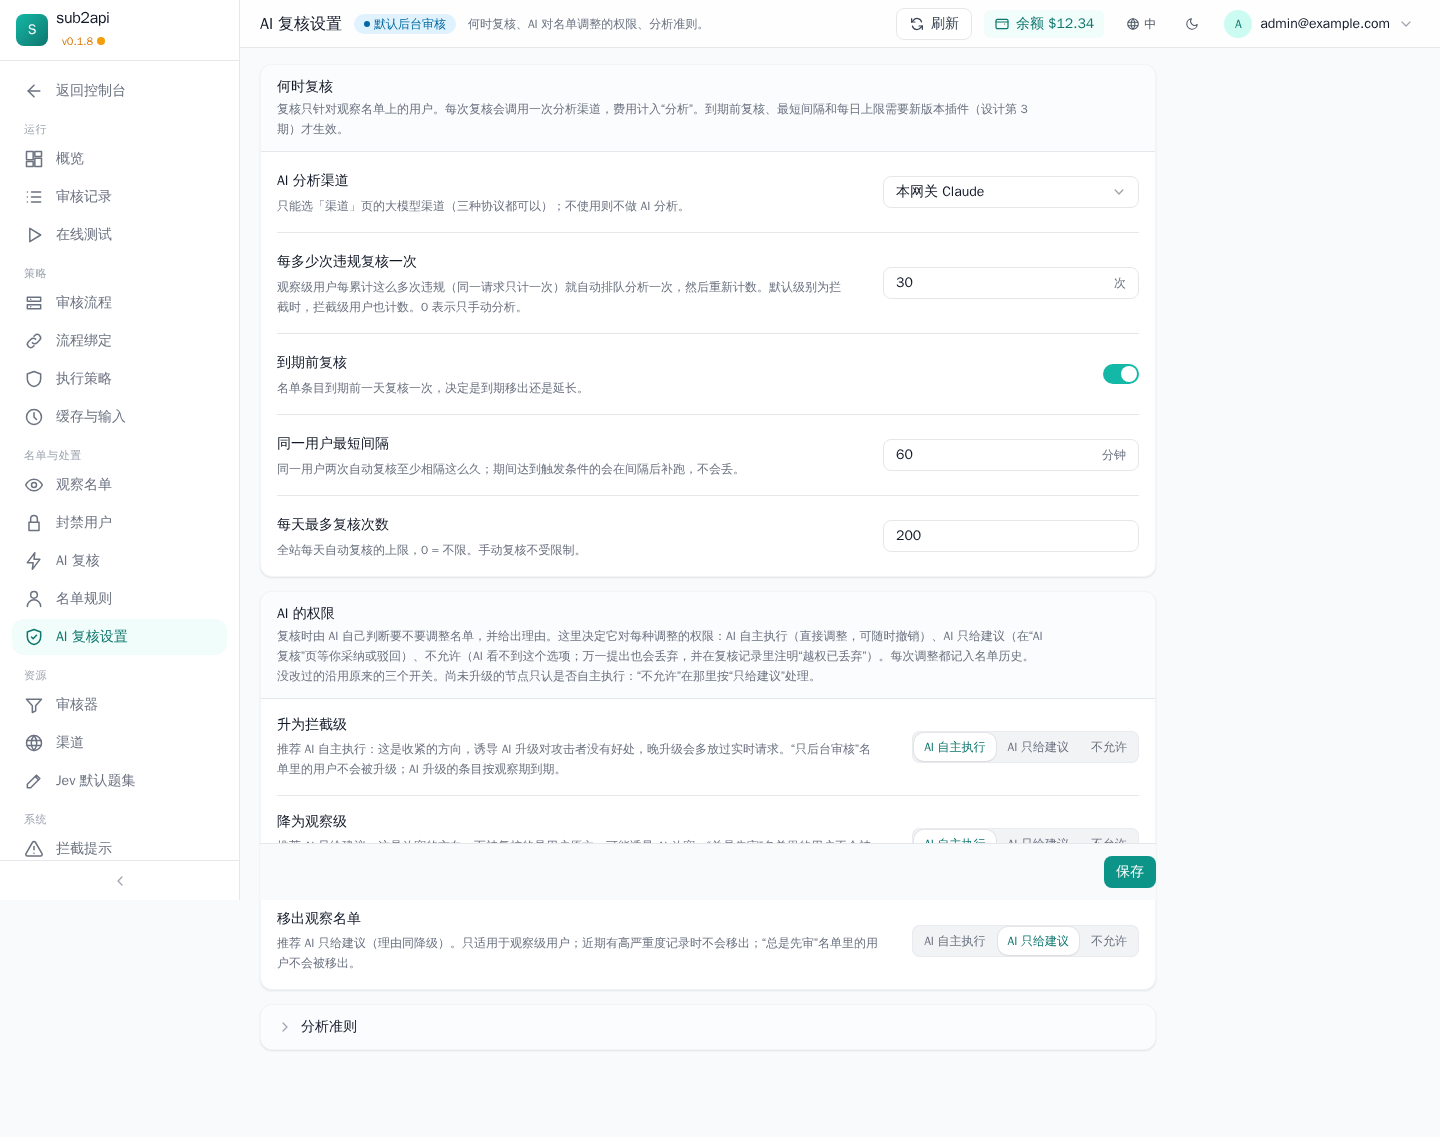
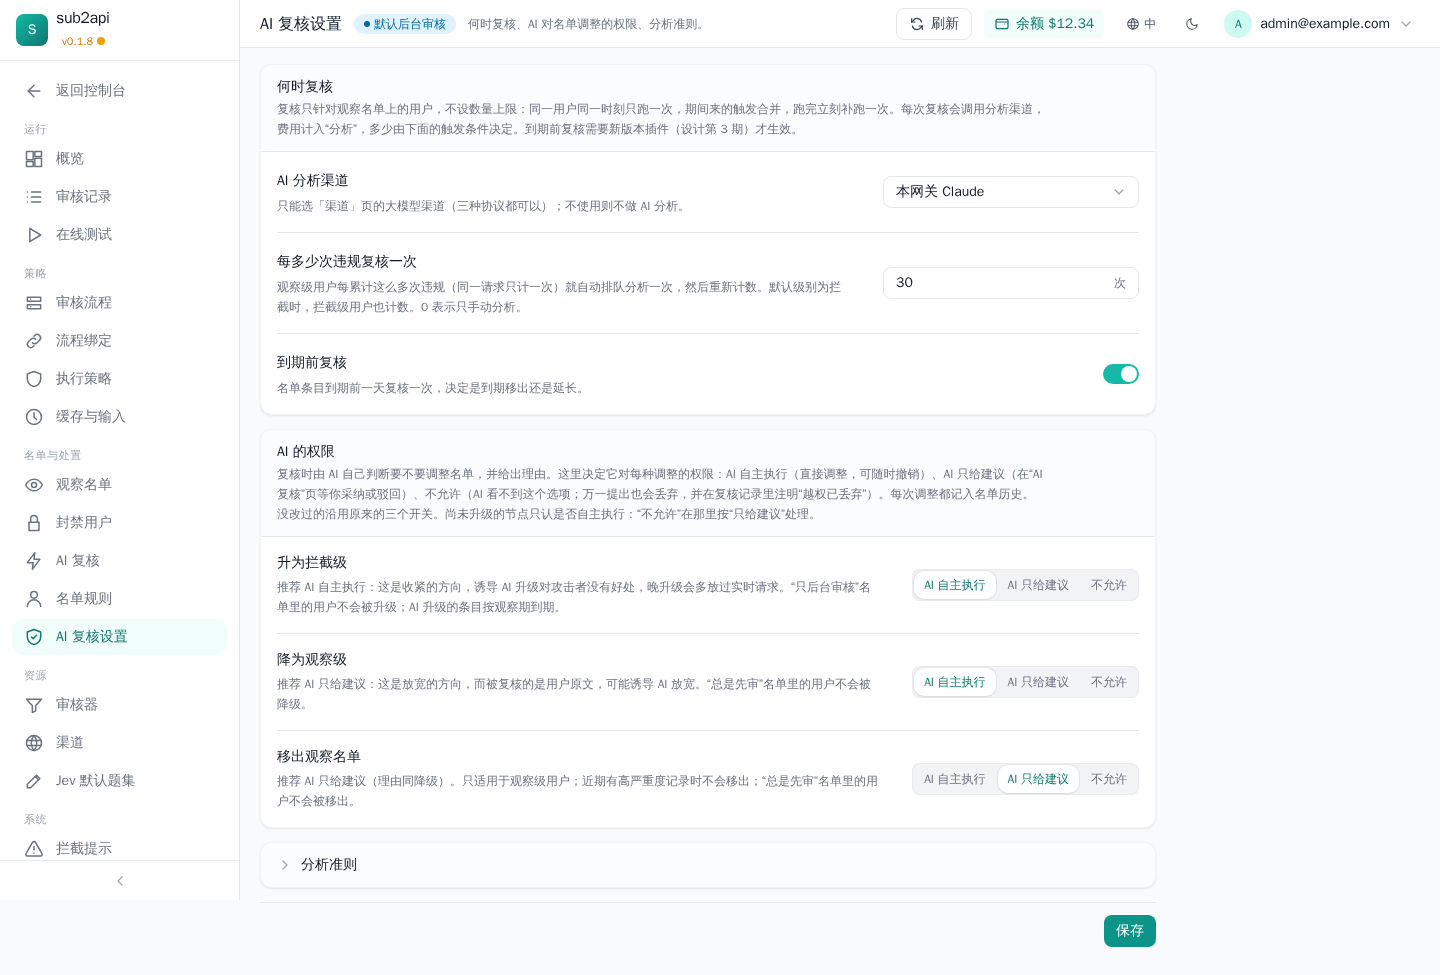
proto(moderation): AI reviews without quantity limits (D7)
Confirmed by the user: the AI review sets no quantity limits.
- removed the prototype's per-user interval and daily limit (settings,
  schema, design); analysis_concurrency retired (hidden, kept only so a
  stored value still validates; the Go and spec lists of hidden keys name it)
- kept: one review per user at a time, triggers during a run merged into
  one rerun right after it; the step cap of 12 stays an internal constant
  (design 9.4 says why); timeout, context budget and retention stay
- design: D7 confirmed in section 0; 9.4 triggers, risks and fallbacks
  (cost by the every-N trigger, 429 handling with file:line), settings
  table, backend changes, phases; 4.9 the audit max_concurrency as an
  optional follow-up with its risks (unchanged here); 9.8 change note
- the every-N help says both levels count; full-page shots no longer have
  the sticky save bar over the content; five settings screenshots again

diff --git a/next/plugins/moderation/ui/native/src/settingsForm.spec.ts b/next/plugins/moderation/ui/native/src/settingsForm.spec.ts
@@ -7,7 +7,7 @@ import { mergeSettings, type PageValues } from './settingsMerge'
 
 const MASK = '******'
 /** The converted 0.1 fields and the keys retired in 0.8.0: in the schema (the core validates and masks them), never on the page. */
-const LEGACY = ['base_url', 'api_key', 'model', 'system_prompt', 'categories', 'tool_choice', 'max_turns', 'temperature', 'max_tokens', 'timeout_ms', 'on_error', 'sample_rate', 'group_ids', 'model_patterns', 'retention_days', 'exempt_user_ids', 'cache_ttl_seconds', 'analysis_allow_upgrade', 'analysis_allow_downgrade', 'analysis_allow_remove']
+const LEGACY = ['base_url', 'api_key', 'model', 'system_prompt', 'categories', 'tool_choice', 'max_turns', 'temperature', 'max_tokens', 'timeout_ms', 'on_error', 'sample_rate', 'group_ids', 'model_patterns', 'retention_days', 'exempt_user_ids', 'cache_ttl_seconds', 'analysis_allow_upgrade', 'analysis_allow_downgrade', 'analysis_allow_remove', 'analysis_concurrency']
 
 const sections = settingSections(schema, ui)
 const zh = (v: unknown) => (v as { zh: string }).zh

diff --git a/next/plugins/moderation/manifest_test.go b/next/plugins/moderation/manifest_test.go
@@ -261,9 +261,10 @@ func TestSettingsForms(t *testing.T) {
 	// them (§72.15); the keys retired in 0.8.0 (exempt_user_ids, read as the
 	// allowlist, and cache_ttl_seconds, read as verdict_cache_days) are
 	// hidden like them, as are the AI switches the review redesign retires
-	// (analysis_allow_*, read as analysis_upgrade / _downgrade / _remove);
+	// (analysis_allow_*, read as analysis_upgrade / _downgrade / _remove) and
+	// analysis_concurrency (AI reviews run without a cap);
 	// every other field is shown.
-	legacy := []string{"exempt_user_ids", "cache_ttl_seconds", "analysis_allow_upgrade", "analysis_allow_downgrade", "analysis_allow_remove", "base_url", "api_key", "model", "system_prompt", "categories", "tool_choice", "max_turns", "temperature",
+	legacy := []string{"exempt_user_ids", "cache_ttl_seconds", "analysis_allow_upgrade", "analysis_allow_downgrade", "analysis_allow_remove", "analysis_concurrency", "base_url", "api_key", "model", "system_prompt", "categories", "tool_choice", "max_turns", "temperature",
 		"max_tokens", "timeout_ms", "on_error", "sample_rate", "group_ids", "model_patterns", "retention_days"}
 	for _, k := range order {
 		var fu struct {

diff --git a/design/MODERATION_REDESIGN.md b/design/MODERATION_REDESIGN.md
@@ -32,7 +32,7 @@
 | D4 | 审核失败时的处理 | **默认 `open`（放行并记为出错，与现状一致）**，可选 `close_pre`（先审的请求返回 503） | 默认 `close_pre`：更安全，但上游一抖动就会拒绝用户 |
 | D5 | 白名单、黑名单是否并入观察名单 | **本期只改名**（"只后台审核" / "总是先审"），第 4 期再并入观察名单，作为"锁定条目" | 立即合并：要迁移数据，而且 AI 分析和自动观察的规则都要一起改 |
 | D6 | AI 的权限（§9.4）——**用户已确认** | **升级、降级、移出三项各自三档：AI 自主执行 / AI 只给建议 / 不允许**。已有安装沿用原来的 `analysis_allow_*`（开为自主执行，关为只给建议），升级后行为不变，用户的站点三项都是自主执行。新装推荐：升级自主，降级和移出只给建议（理由见 §9.4）。所有执行都可以撤销，并记入名单历史 | （已定） |
-| D7 | AI 复核的触发时机（§9） | **每 N 次违规（observe、enforce 都计）+ 名单到期前一天 + 手动**；同一用户最短间隔 60 分钟，期间的触发顺延而不是丢掉；全站每天上限 200 次 | 维持现状：只按违规次数触发，且只有 observe 级计数（默认级别为拦截时 enforce 级也计）；分析运行期间的触发会丢 |
+| D7 | AI 复核的触发与数量限制（§9.4）——**用户已确认：AI 复核不设数量限制** | 触发：每 N 次违规（observe、enforce 都计）+ 名单到期前一天 + 手动。**不设**同一用户最短间隔、每日上限和分析并发上限（`analysis_concurrency` 退役）。保留两条正确性规则：同一用户同一时刻只跑一次；运行期间来的触发合并，跑完立刻补跑一次。成本由每 N 次违规这个触发频率决定 | （已定） |
 | D8 | 由谁决定名单调整（§9.4）——**用户已确认** | **由 AI 自主判断**：AI 在提交里给出它决定的动作和理由，可以附带风险等级作说明。服务端不再按规则推出动作，只按 D6 的授权做闸门：自主执行就执行，只给建议就转成待确认，不允许就丢弃并在复核记录里注明"越权已丢弃" | （已定） |
 
 ---
@@ -371,6 +371,37 @@
 
 ---
 
+### 4.9 可选后续：审核本身的 `max_concurrency` 是否也默认不限（未改，待定）
+
+D7 只针对 AI 复核。审核本身的并发设置 `max_concurrency` 这次**不改**，这里只列出风险，供以后决定。
+
+**现状**（行号指 `ed988819c`）
+
+- `max_concurrency`（默认 16，解码时夹到 1–256，`M/settings.go:365`）同时决定两件事：
+  - 后台审核的工作协程数，即 post 池（`M/plugin.go:207`、:451-459）；
+  - 每个节点同时进行的审核器调用名额（`M/plugin.go:166`）。
+- 先审另有名额 `max(64, 4×max_concurrency)`（`M/plugin.go:167`、:420）。
+- 每次审核器调用都要先拿到名额（`M/engine.go:278`）；在渠道超时内等不到，这个审核器就记为超时出错（:279-281）。
+- 内存保护与此独立：
+  - `max_inflight_mb`：处理中的请求超过这个字节数时，先审的请求返回 503，后台审核的请求直接放行（`M/hook.go:130-139`）；
+  - `queue_size`：后台队列满时丢弃并放行（`M/hook.go:149-151`）。
+
+**如果改为 0 = 不限**
+
+- 改动点：
+  - `acquire` 在不限时直接返回（`M/plugin.go:428-441`）；
+  - post 池改为每个任务一个 goroutine，正在运行加排队的总数仍由 `queue_size` 封顶（`M/plugin.go:451-459`）；
+  - 解码时允许 0（`M/settings.go:365`）；
+  - 不限时先审也不再有单独的名额。
+- 风险：
+  - **上游限流**：审核器调用**没有任何重试**。429 会直接成为出错（`M/upstream.go:98` 的 `ErrType`）。这一级记为失败并跳过，结果是失败放行（§4.6）。不限之后，突发流量会把审核器渠道打满，**放行的请求随之增多**。这是最大的风险。
+  - **内存**：`max_inflight_mb` 和 `queue_size` 仍然有效，必须保留，它们才是内存的真正保护。
+  - **goroutine 数量**：
+    - 先审的 goroutine 数等于网关的并发请求数，本来就由网关控制；
+    - 后台审核的 goroutine 数由 `queue_size` 封顶；
+    - 每个任务还会对每个审核器各开一个 goroutine（`M/flow.go:494-496`），这个数量不变。
+- 建议：如果要改，先给审核器调用加上与 AI 复核相同的 429 重试（按 `Retry-After`），或者在渠道层面加限流，然后再把默认值改为不限。
+
 ## 5. 分期实施计划
 
 每期都可以独立上线。
@@ -507,7 +538,7 @@ cd next/web && node node_modules/vite/bin/vite.js --mode mock
   - 所有执行都可以撤销，并在名单历史里关联 `analysis_id`。
   - 侧栏"名单与处置"下新增"AI 复核"视图（待确认的建议 + 最近的复核）；用户详情抽屉的第一张卡片就是该用户的复核结论；设置拆成"AI 复核设置"和"高级 / AI 复核资源"。
 - **原型已经实现上述界面**，后端用 mock；截图是 `design/shots/ai-*.png`。
-- **决策点** D6、D8 用户已确认；D7 和 D1–D5 还在等回复，所以本节只做原型。
+- **决策点** D6、D7、D8 用户已确认；D1–D5 还在等回复，所以本节只做原型。
 
 ### 9.1 "AI 趋势分析"具体指什么
 
@@ -595,7 +626,7 @@ cd next/web && node node_modules/vite/bin/vite.js --mode mock
 | A3 | **触发会丢、会偏**：分析运行期间到达的触发被合并后清掉；失败不重试，计数却已清零；手动排队也清零自动计数；enforce 级条目的误报撤不回计数；新进名单、到期前都不复核 | `M/store.go:362-364`、`M/analysis_queue.go:351`、:454-455、`M/routes.go:707` |
 | A4 | **结论不可执行、不可追溯**：没有"待确认"状态和驳回动作；自动动作无法一键撤销；跳过的动作（`*_skipped`、`auto_not_allowed`）只在名单历史里留一行 | `M/analysis_queue.go:201-208`；CONTRACTS.md:5659 |
 | A5 | **与名单、封禁规则重叠**：AI 升级会变成永久 enforce，与人工有期限的规则不同；AI 判误报不影响封禁和违规计数；白名单用户被分析却只能降级 | `M/analysis_queue.go:396-406`、`M/store.go:443` |
-| A6 | **成本没有上限**：没有轮数上限，没有每日上限，没有同一用户的最短间隔 | `M/analysis.go:300` |
+| A6 | **单次运行没有轮数上限**，只受超时约束（D7 定稿后，数量类限制按用户要求不设，见 §9.4"触发"） | `M/analysis.go:300` |
 | A7 | **界面信息层级混乱**：结论分散在五处；抽屉里最重要的"建议"夹在概况和标签页之间；侧栏的"名单与处置 / AI 分析"只是一个设置页，没有可查看结论的视图 | §9.2 界面 |
 | A8 | **与新信息架构不契合**：新侧栏把"名单与处置"作为处理人的地方，AI 分析却只占一个设置页；三个 `allow_*` 布尔开关与两个名单的交互，在"名单规则"页和"AI 分析"页两处都要理解 | §1.1、§3 |
 | A9 | **小问题**：手动接口在"已排队"时返回 202 但什么也不做，CONTRACTS 写的是 409；分析被裁剪后记录上的 `ai_analysis_id` 悬空；不再拥有认领的节点也会写入分析行 | `M/analysis_queue.go:455`、:499；CONTRACTS.md:5633；`M/analysis_queue.go:304`、:329 |
@@ -660,13 +691,32 @@ cd next/web && node node_modules/vite/bin/vite.js --mode mock
 
 **触发**（D7）
 
-- 每 N 次违规触发，observe 和 enforce 级都计数。
-- 名单到期前一天复核一次，决定是到期移出还是延长。
-- 手动触发；在"AI 复核"页上可以批量触发（后续）。
-- 同一用户最短间隔 `analysis_cooldown_minutes`（默认 60）。**间隔期内到达的触发记为"待补跑"，不清零、不丢**（A3）。
-- 失败后按退避重试 1 次。
-- 全站每天自动复核上限 `analysis_daily_limit`（默认 200）。
-- 运行时设轮数上限（固定 12 轮），解决 A6。
+**用户已确认：AI 复核不设数量限制。** 原则是能删就删。
+
+- **触发条件**：
+  - 每 N 次违规，observe 和 enforce 级都计数；
+  - 名单到期前一天复核一次，决定是到期移出还是延长；
+  - 手动触发；在"AI 复核"页上可以批量触发（后续）。
+- **不设数量限制**：
+  - 不新增"同一用户最短间隔"和"每日上限"；
+  - 现有的分析并发上限 `analysis_concurrency`（每个节点 2 个，`M/analysis_queue.go:85`）退役，排队的复核立即开跑；
+  - 没有单独的分析队列上限：排队记录就在名单行上，每个用户最多一条，所以队列天然不会超过名单人数。
+- **保留两条正确性规则**（去重，不是限流，触发不会因此等待）：
+  1. 同一用户同一时刻只跑一次：沿用名单行上的认领和令牌（`M/analysis_queue.go:123-158`）。
+  2. 运行期间来的触发合并为一次"待补跑"，跑完立刻再跑一次，不丢。这修复了 A3：现在运行中的触发会在结束时被清掉（`M/store.go:362-364`、`M/analysis_queue.go:351`）。
+- 失败后按退避重试 1 次，失败本身不清零违规计数（A3）。
+- **单次运行的轮数上限：保留为不可配置的内部常量 `maxSteps = 12`，界面不展示。** 它不是限流，是防止 agent 死循环的健壮性兜底。
+  - 只靠超时（默认 60 s）不够：一个很快的模型如果一直调工具，60 秒里可以调用几十次，而且每一步都要重发不断变长的上下文（最多 `analysis_context_kb`）。
+  - 正常的复核用 3–8 步（例如 trace 里的 5 步），12 步留有余量。
+  - 达到上限时，与上下文超出预算时一样，强制下一步提交（`M/analysis.go:306-307` 已有这个机制）。
+
+**不限之后的风险与兜底**
+
+- **成本**：由触发频率决定。每 N 次违规才触发一次（`analysis_every_violations`，默认 30），名单到期前最多再触发一次，加上手动触发。同一用户永远不会并行跑两次，运行期间的触发也只合并成一次补跑。所以复核次数的上限大约是"违规数 / N + 名单人数 + 手动次数"。想降低成本就调大 N，或者关掉"到期前复核"。
+- **上游 429 和 5xx**：现有逻辑是单步重试 1 次，优先按 `Retry-After` 等待（`M/analysis.go:247-280`）。仍然失败时，这次复核记为失败，按上一条退避重试 1 次，再失败就等下一次触发。
+  - 突发时，例如渠道恢复后大量排队的复核同时开跑，可能连续遇到 429。之后由每次复核自己的重试错开，不会丢失触发，计数也不清零。
+  - 如果以后发现某个渠道经常被打满，优先在渠道层面限流（渠道属于共享资源，限流放在那里，审核器也能受益），而不是恢复一个复核专用的并发数。
+- **内存和 goroutine**：每个运行中的复核是一个 goroutine，加上一份最多 `analysis_context_kb`（默认 64 KB）的上下文；名单 1 000 人全部同时运行时约 64 MB。实际同时运行数不会超过名单人数（每人最多一次）。
 
 **界面**（原型已实现）
 
@@ -692,14 +742,14 @@ cd next/web && node node_modules/vite/bin/vite.js --mode mock
 | `analysis_channel_id` | AI 分析 | AI 复核设置 / 何时复核 | 保留（文案"AI 分析渠道"） | 0 |
 | `analysis_every_violations` | AI 分析 | AI 复核设置 / 何时复核 | 保留，改名"每多少次违规复核一次"；observe 和 enforce 都计数（后端） | 30 |
 | `analysis_review_before_expiry` | — | AI 复核设置 / 何时复核 | **新增** | true |
-| `analysis_cooldown_minutes` | — | AI 复核设置 / 何时复核 | **新增** | 60 |
-| `analysis_daily_limit` | — | AI 复核设置 / 何时复核 | **新增**（0 = 不限） | 200 |
+| `analysis_cooldown_minutes`、`analysis_daily_limit` | — | — | **不新增**（D7：不设数量限制） | — |
 | `analysis_upgrade` | — | AI 复核设置 / AI 的权限 | **新增**，取代 `analysis_allow_upgrade`；AI 自主执行 / AI 只给建议 / 不允许（D6） | 已有安装沿用旧开关（未存过为 auto）；新装 auto |
 | `analysis_downgrade` | — | 同上 | **新增**，取代 `analysis_allow_downgrade` | 已有安装沿用旧开关（未存过为 auto）；新装 suggest |
 | `analysis_remove` | — | 同上 | **新增**，取代 `analysis_allow_remove` | 已有安装沿用旧开关（未存过为 suggest，因为旧默认为 false）；新装 suggest |
 | `analysis_allow_upgrade`、`analysis_allow_downgrade`、`analysis_allow_remove` | AI 分析 | 隐藏 | **退役**，第 4 期删除（原型 `UI/settingsForm.ts` 的 `EFFECT_KEYS`）：<br>· 新键没保存过时按旧值显示（true 为 auto，false 为 suggest）；<br>· 保存新键时同步写回旧键（auto 为 true，否则 false），供混跑期间的旧节点读取；<br>· 若旧键在此期间被别人改过，保存前先确认（`retiredConflicts`）；<br>· 旧节点上"不允许"按"只给建议"处理，设置页已说明 | — |
 | `analysis_guidelines` | AI 分析 | AI 复核设置 / 分析准则（折叠） | 保留；内置准则改正动作含义，授权的动作由系统追加（见"提示词"） | "" |
-| `analysis_timeout_ms`、`analysis_concurrency`、`analysis_context_kb`、`analysis_keep_per_user` | AI 分析 | 高级 / AI 复核资源（折叠） | 保留（资源类，很少改动） | 60000 / 2 / 64 / 20 |
+| `analysis_concurrency` | AI 分析 | 隐藏 | **退役**（D7：不设并发上限）。schema 中保留为隐藏键，只是为了让已存的值仍能通过核心的校验；第 4 期删除 | — |
+| `analysis_timeout_ms`、`analysis_context_kb`、`analysis_keep_per_user` | AI 分析 | 高级 / AI 复核资源（折叠） | 保留：超时与上下文预算是单次运行的健壮性设置，保留条数是存储设置，都不是数量限制 | 60000 / 64 / 20 |
 
 **后端改动点与迁移**
 
@@ -708,8 +758,9 @@ cd next/web && node node_modules/vite/bin/vite.js --mode mock
   - 触发：`M/store.go:313-368` 去掉"只有 observe 级计数"；运行期间的触发改为设置"待补跑"标记；
   - `M/analysis_queue.go:351` 在有"待补跑"时不清掉排队；
   - 准则与提示词：`M/analysis_guidelines.go` 改正动作含义；`M/analysis_prompt.go:340-370` 按授权追加"你可以决定的名单调整"一段；
-  - 轮数上限：`M/analysis.go:300`。
-- `user_analyses` 加列 `risk`、`proposal_action`、`proposal_from`、`proposal_to`、`proposal_status`、`proposal_reason`、`proposal_evidence`、`decided_by`、`decided_at`；`watchlist` 加"待补跑"的时间列。这些**需要迁移**，属于加列，按约定走 maintenance。
+  - 轮数上限：`M/analysis.go:300` 的循环加上内部常量 `maxSteps = 12`，达到上限时强制提交；
+  - 不设并发：`M/analysis_queue.go:85` 的 `free` 计算去掉 `AnalysisConcurrency`，认领到的都立即运行；`M/settings.go:418` 不再解码 `analysis_concurrency`。
+- `user_analyses` 加列 `risk`、`proposal_action`、`proposal_from`、`proposal_to`、`proposal_status`、`proposal_reason`、`proposal_evidence`、`decided_by`、`decided_at`；`watchlist` 加"待补跑"标记列（运行期间来的触发写这一列，跑完若有就立刻再排一次）。这些**需要迁移**，属于加列，按约定走 maintenance。
 - 新接口：
   - `GET /analyses?proposal=pending`（read）；
   - `POST /analyses/:id/decision {apply|reject|undo}`（manage），在 `block_subjects` 锁内校验状态和当前级别，写 `watch_events`。
@@ -741,8 +792,9 @@ cd next/web && node node_modules/vite/bin/vite.js --mode mock
   - 设置拆分并改文案；
   - `?user=` 深链；
   - 改正内置准则里错误的动作含义（"拦截级直接移出"）；
-  - 修复手动接口的 202 / 409 不一致。
-- **第 3 期（与 events 加列放在同一个 maintenance 窗口）：** 由 AI 决定动作加授权闸门（`submit_analysis` 的 `action` 和 `reason`、`proposal_*` 列、决策接口、撤销、`dropped` 状态）、按授权生成提示词、新的触发方式与上限、`allow_*` 退役。默认值按上文"默认值"执行，已有安装的行为不变。
+  - 修复手动接口的 202 / 409 不一致；
+  - 去掉分析并发上限，加上内部轮数上限（都不需要迁移）。
+- **第 3 期（与 events 加列放在同一个 maintenance 窗口）：** 由 AI 决定动作加授权闸门（`submit_analysis` 的 `action` 和 `reason`、`proposal_*` 列、决策接口、撤销、`dropped` 状态）、按授权生成提示词、新的触发方式（到期前复核、待补跑）、`allow_*` 和 `analysis_concurrency` 退役。默认值按上文"默认值"执行，已有安装的行为不变。
 
 ### 9.5 原型与截图
 
@@ -830,3 +882,14 @@ cd next/web && node node_modules/vite/bin/vite.js --mode mock
 | 低 | `wasOn` 重复了默认值 | 已删除，改用 schema 默认值，单测检查新旧一致；mock 的 `permission()` 注明与设置页同一规则 |
 | 低 | "越权已丢弃"与驳回、撤销同色 | 已改为 danger 色 |
 | 低 | 界面上看不到推荐值 | 每一项的说明都写了推荐和理由 |
+
+### 9.8 D7 定稿（AI 复核不设数量限制）
+
+- **删除**：原型里新加的"同一用户最短间隔"和"每日上限"（设置页控件、schema、文档）都删掉，不作为"0 = 不限"的选项保留。
+- **退役**：`analysis_concurrency` 改为隐藏，已存的值仍能通过校验，后端不再读取。
+- **保留**：单次超时、上下文预算和保留条数，这些都不是数量限制。
+- **正确性规则保留**：同一用户同一时刻只跑一次；运行期间的触发合并，跑完立刻补跑一次。
+- **内部常量**：单次运行的轮数上限 12 作为不可配置的内部常量（理由见 §9.4"触发"）。
+- **审核本身的 `max_concurrency` 未改**，列为可选后续，风险评估见 §4.9。
+- **审查**：本次只改了设置表单、Go 和 TS 测试里的隐藏键清单、文档和截图，没有业务逻辑或 Go 代码改动，所以只做了自审。
+- **重拍的截图**：`ai-desktop-settings`、`ai-mobile-settings`、`ai-dark-settings`、`ai-desktop-advanced-resources`、`desktop-settings-advanced`。整页截图时让底部的保存栏放到页面末尾，不再盖住内容。
